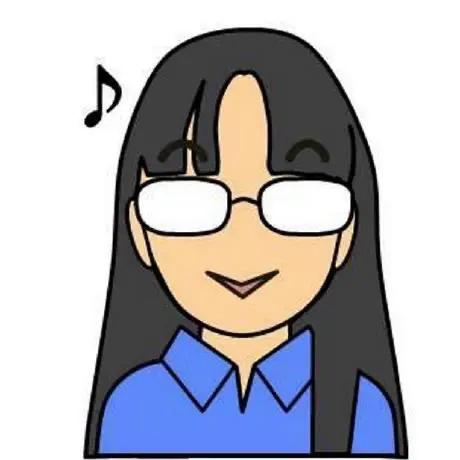
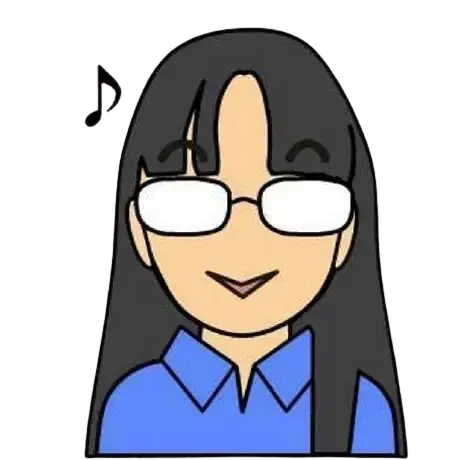
update sponsor image and links

diff --git a/src/sections/6-sponsors.tsx b/src/sections/6-sponsors.tsx
@@ -1,9 +1,7 @@
 "use client";
 
 import Section from "@/components/section";
-import { motion, useInView } from "framer-motion";
 import Image from "next/image";
-import { useRef } from "react";
 import Link from "next/link";
 
 const graphics = [
@@ -23,7 +21,7 @@ const sponsors = [
   {
     src: "/images/sponsors/foxtrot.webp",
     name: "Foxtrot",
-    link: "https://foxtrotco.com/",
+    link: "https://www.foxtrot-services.com/",
   },
   {
     src: "/images/sponsors/songys.webp",
@@ -33,7 +31,17 @@ const sponsors = [
   {
     src: "/images/sponsors/oreilly.webp",
     name: "O'Reilly",
-    link: "https://www.oreillyauto.com/",
+    link: "https://www.oreilly.com/",
+  },
+  {
+    src: "/images/sponsors/bawlsguarana.webp",
+    name: "Bawls Guarana",
+    link: "https://www.bawls.com/",
+  },
+  {
+    src: "/images/sponsors/luckyenergy.webp",
+    name: "Lucky Energy",
+    link: "https://luckybevco.com/",
   },
 ];
 
@@ -50,12 +58,12 @@ const SponsorCard = ({ src, name, link }: Sponsor) => {
       target="_blank"
       className="relative block overflow-hidden bg-white/50 rounded-xl p-4 size-20 md:size-50 backdrop-blur-2xl"
     >
-        <Image
-          src={src}
-          alt={name}
-          fill
-          className="object-contain p-4 overflow-hidden"
-        />
+      <Image
+        src={src}
+        alt={name}
+        fill
+        className="object-contain p-4 overflow-hidden"
+      />
     </Link>
   );
 };

diff --git a/next.config.ts b/next.config.ts
@@ -1,7 +1,7 @@
 import type { NextConfig } from "next";
 
 const nextConfig: NextConfig = {
-  output: "export",
+  // output: "export",
   // reactStrictMode: true,
   images: {
     unoptimized: true,
